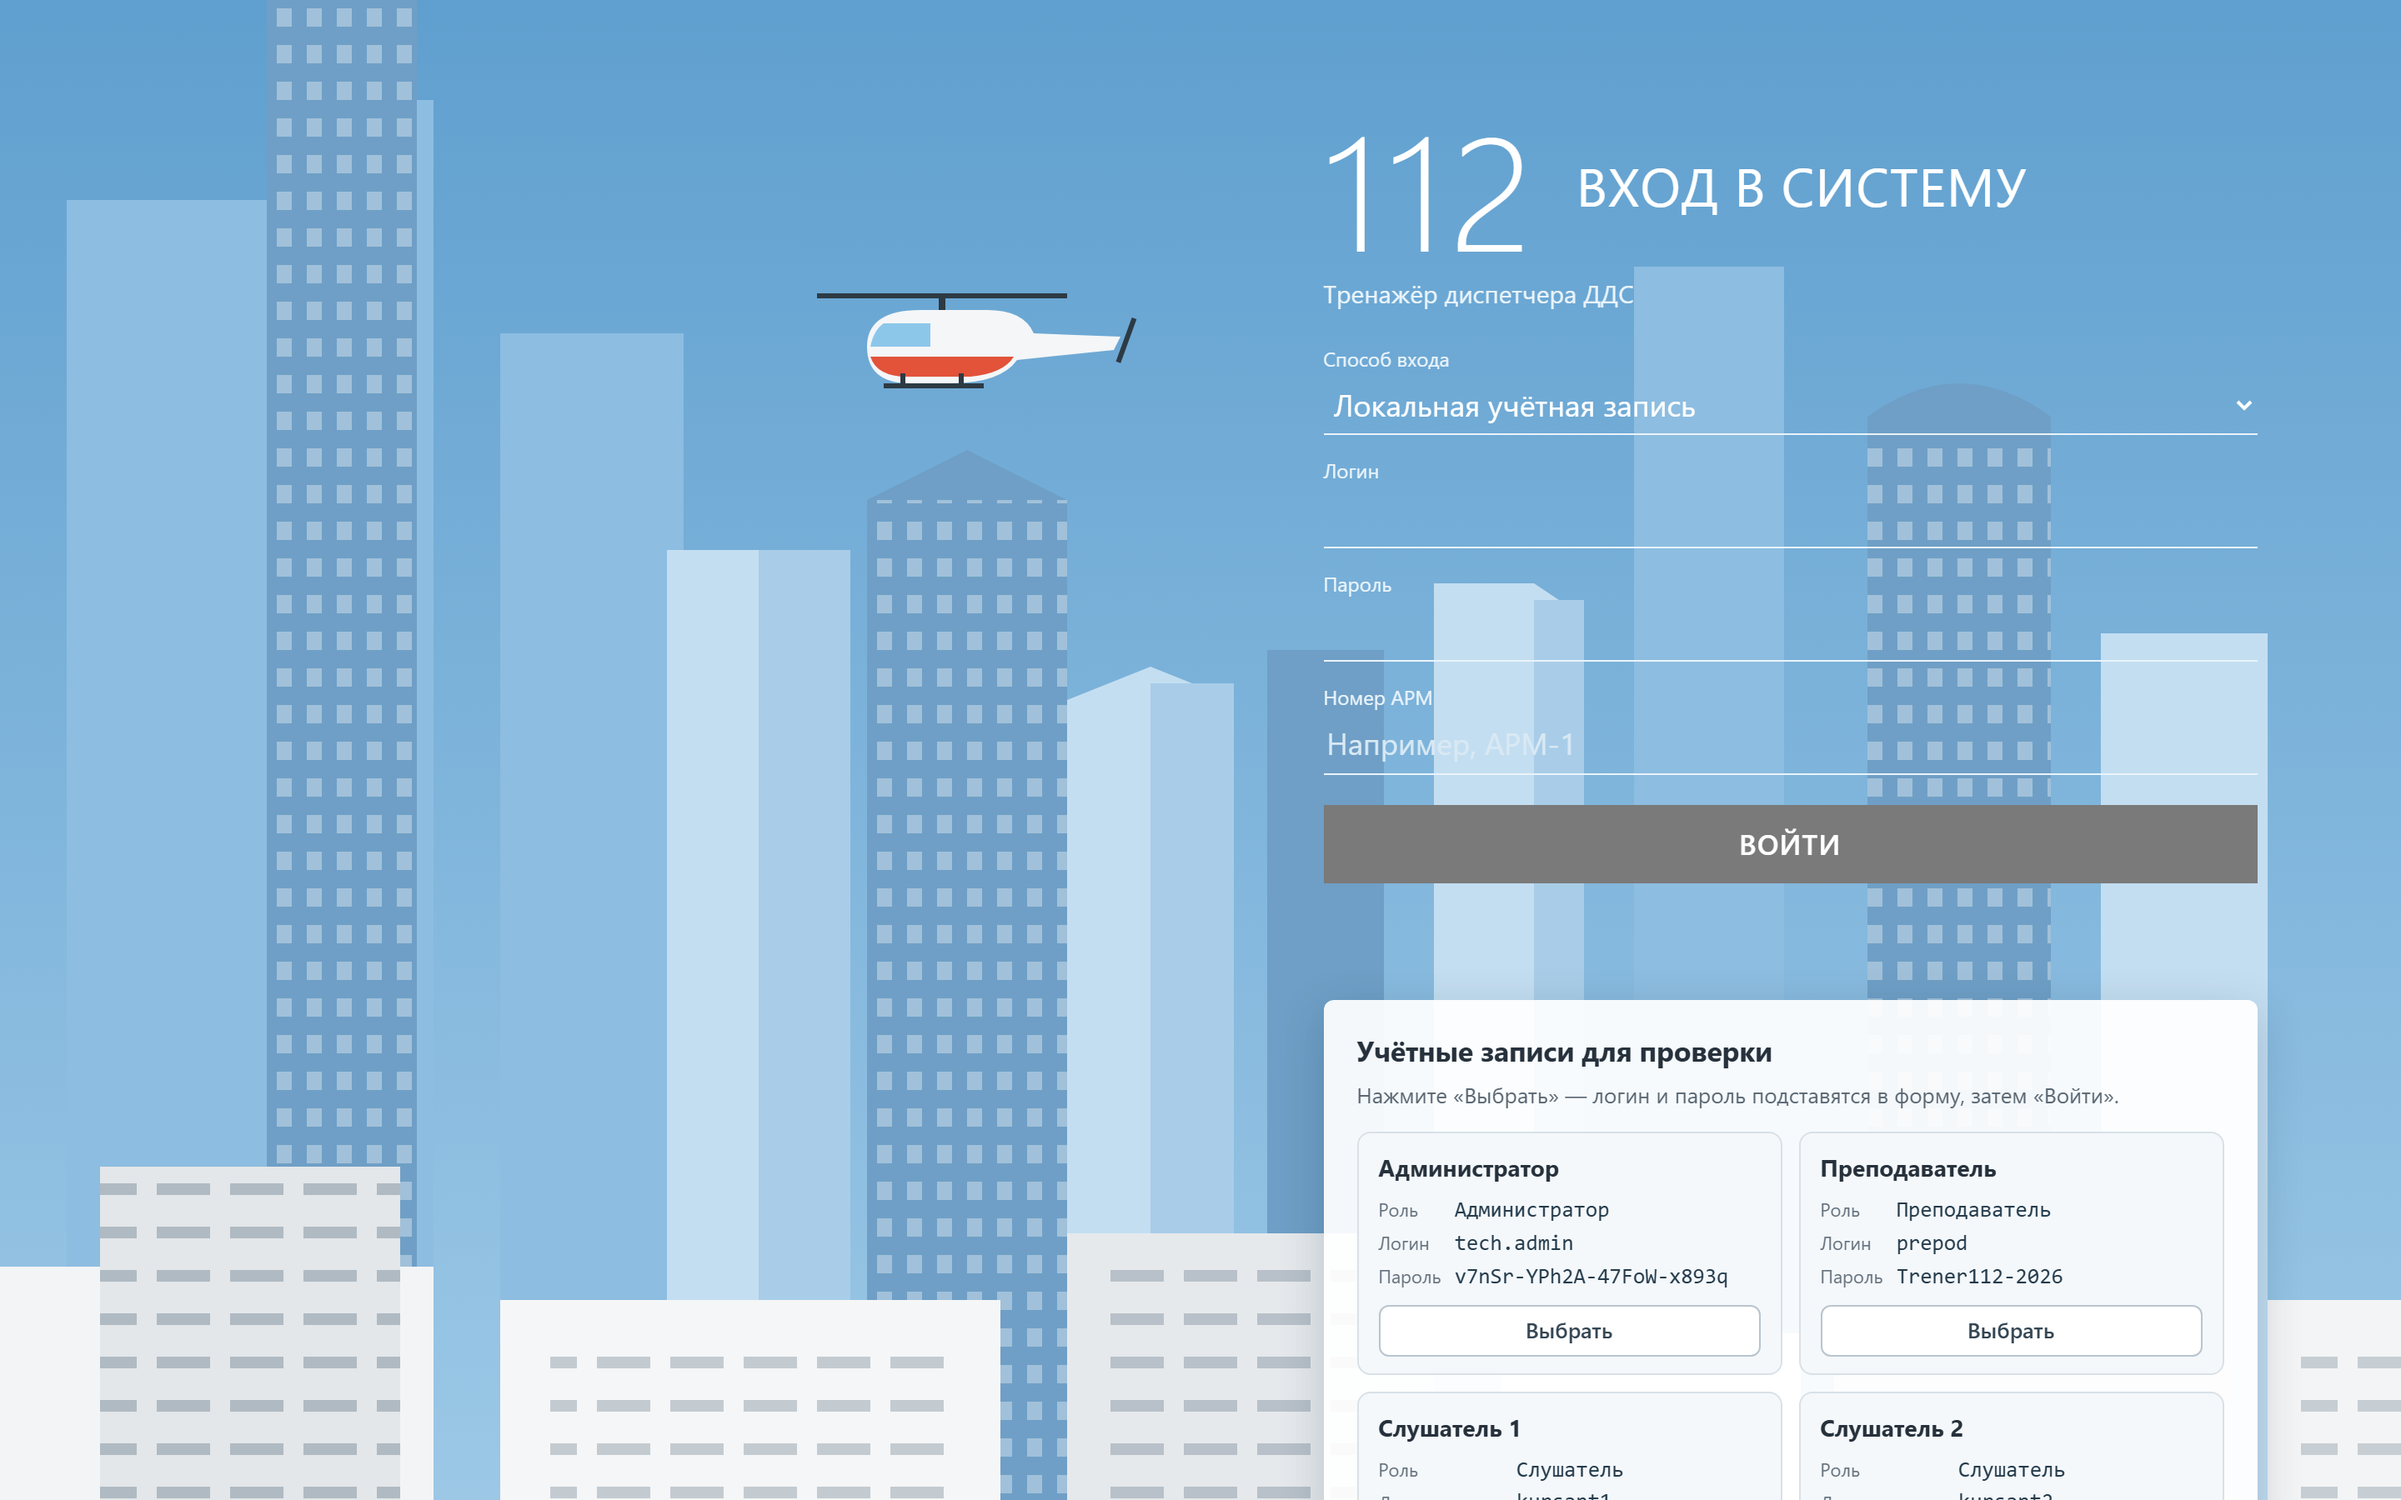
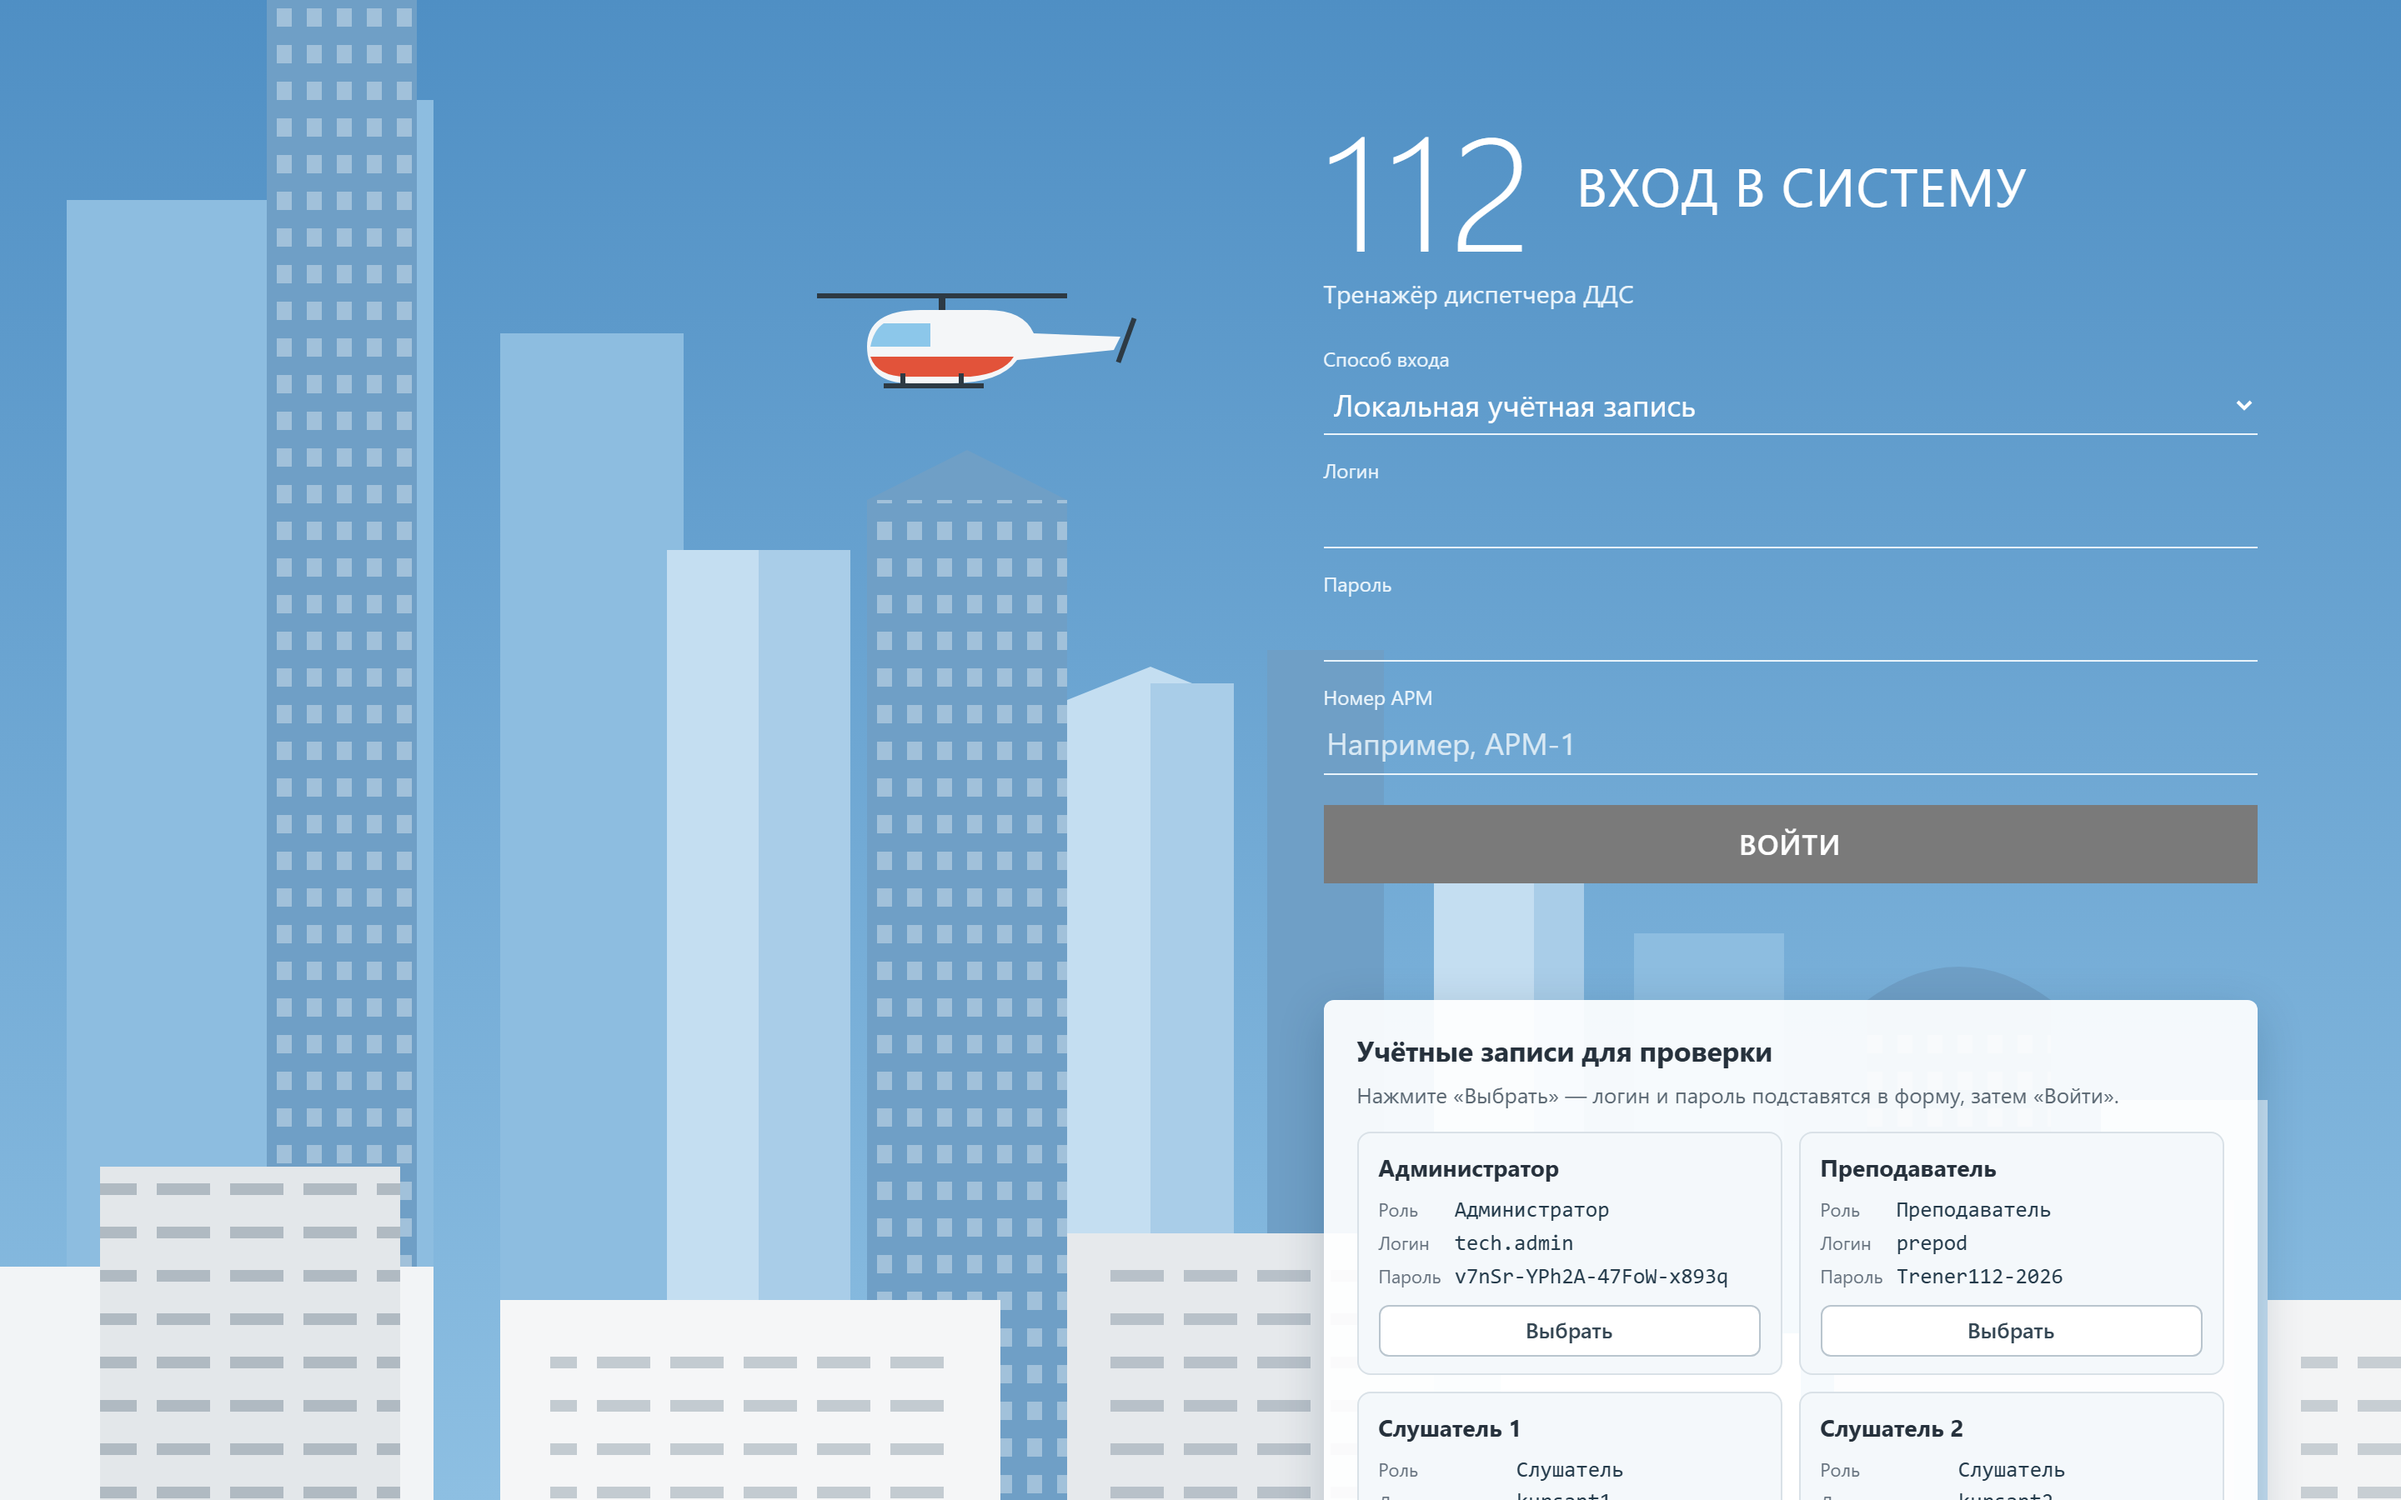
fix(login): keep the sky clear behind the login form like the original ARM; admin manual reply timings

diff --git a/docs/manuals/04_admin.md b/docs/manuals/04_admin.md
@@ -139,7 +139,7 @@ file: 04_Руководство_администратора
 - Профиль модели и устройство выбираются в техническом кабинете: «Быстрая — для слабого сервера» или стандартная.
 - Без видеокарты разбор ИИ после карточки занимает 3–5 минут и считается в фоне. Обучаемый тем временем берёт следующую карточку. Пока кто-то в классе говорит по телефону, разбор ждёт, чтобы не замедлять разговор.
 - Карточки ИИ готовит заранее, запас — до 50 штук. Подготовка ждёт 10 минут без разговоров, а разбор ИИ прерывается, если начался звонок, и продолжается позже: процессор отдаётся разговору.
-- Собеседники отвечают за 3–8 секунд. Модель всегда держится в памяти; при наборе номера роль собеседника готовится заранее, пока «идут гудки».
+- Собеседники отвечают в среднем примерно за 3 секунды без видеокарты и примерно за 0,4 секунды с видеокартой. Модель всегда держится в памяти; при наборе номера роль собеседника готовится заранее, пока «идут гудки».
 
 ## Резервные копии {#backup}
 
